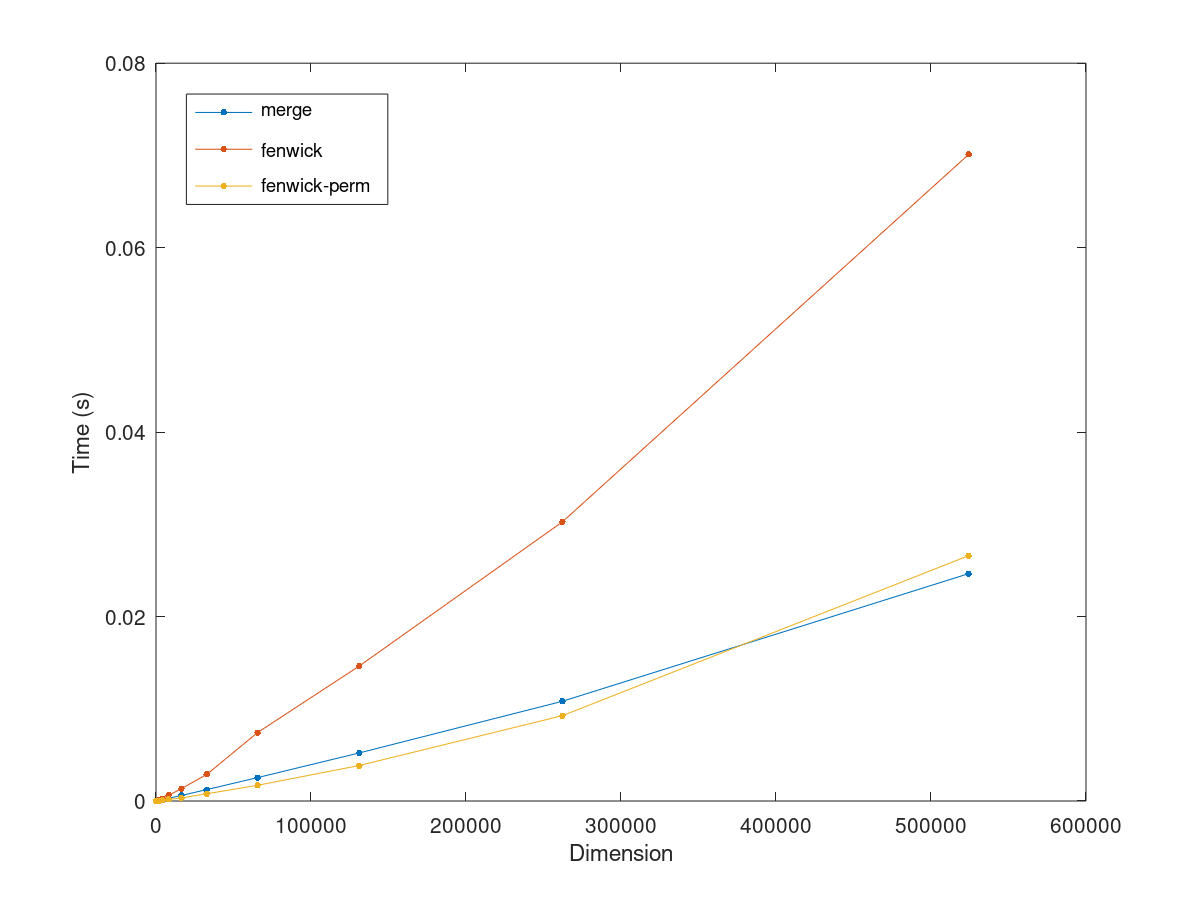
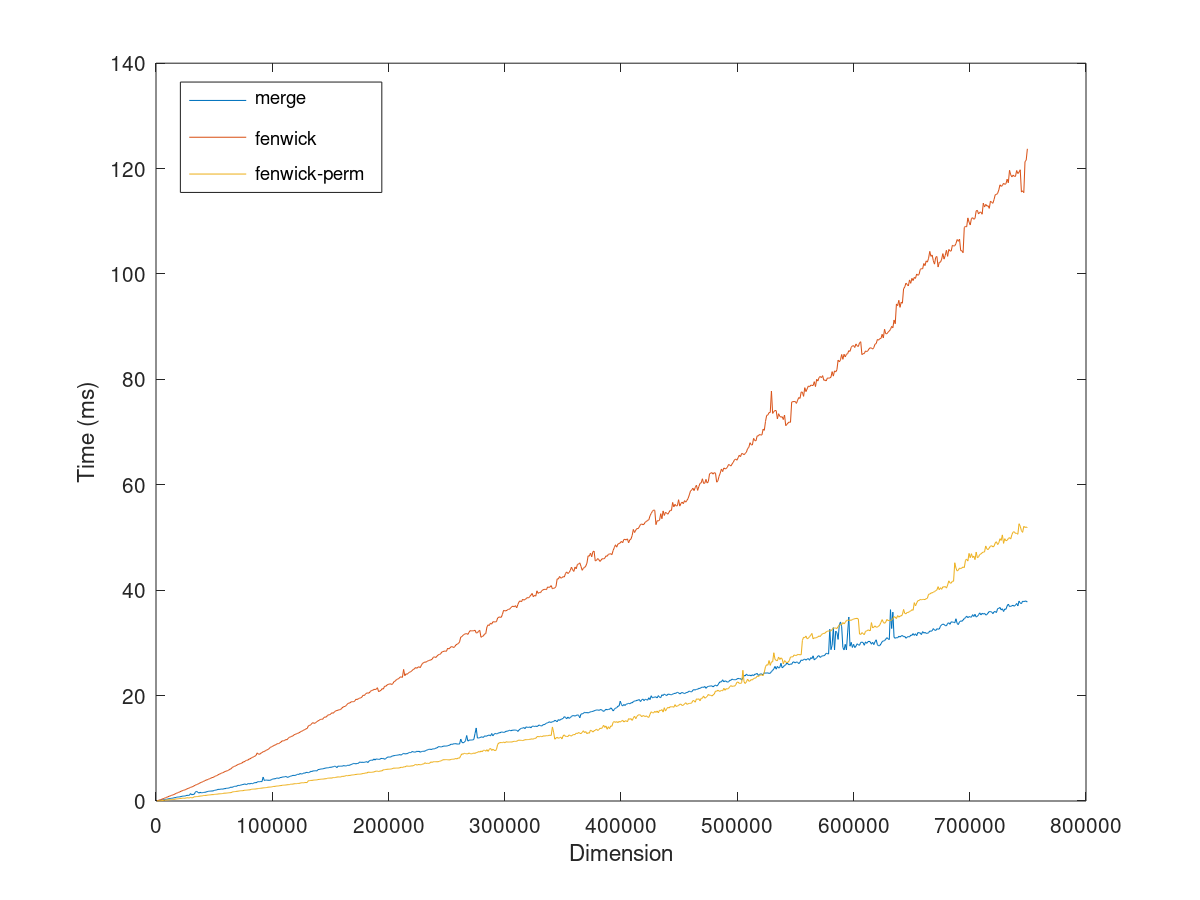
Add cache info and sharpen overtake resolution

diff --git a/Report 1/README.md b/Report 1/README.md
@@ -33,10 +33,19 @@ All tested code is available on this repository and all solutions have been test
 
 ![65536, double up](results/all.png)
 
-## Overtaking of `merge` over `fenwick-perm`
+## Overtaking of `merge` over `fenwick-perm` (increase by 1024 up to 1,048,576)
 
 ![Overtake of `merge` over `fenwick-perm`](results/overtake.png)
 
 # Specs
 
 Compiled with `g++ -O3`, gcc version 8.3.0 (Debian 8.3.0-6), [Google Benchmark](https://github.com/google/benchmark) 1.5.2, tested on a Intel(R) Core(TM) i7-7500U CPU @ 2.70 GHz / 2.90 GHz, 4 cores using WSL2.
+Cache and CPU reported by Google Benchmark:
+```
+Run on (4 X 2904 MHz CPU s)
+CPU Caches:
+  L1 Data 32 KiB (x2)
+  L1 Instruction 32 KiB (x2)
+  L2 Unified 256 KiB (x2)
+  L3 Unified 4096 KiB (x1)
+```
